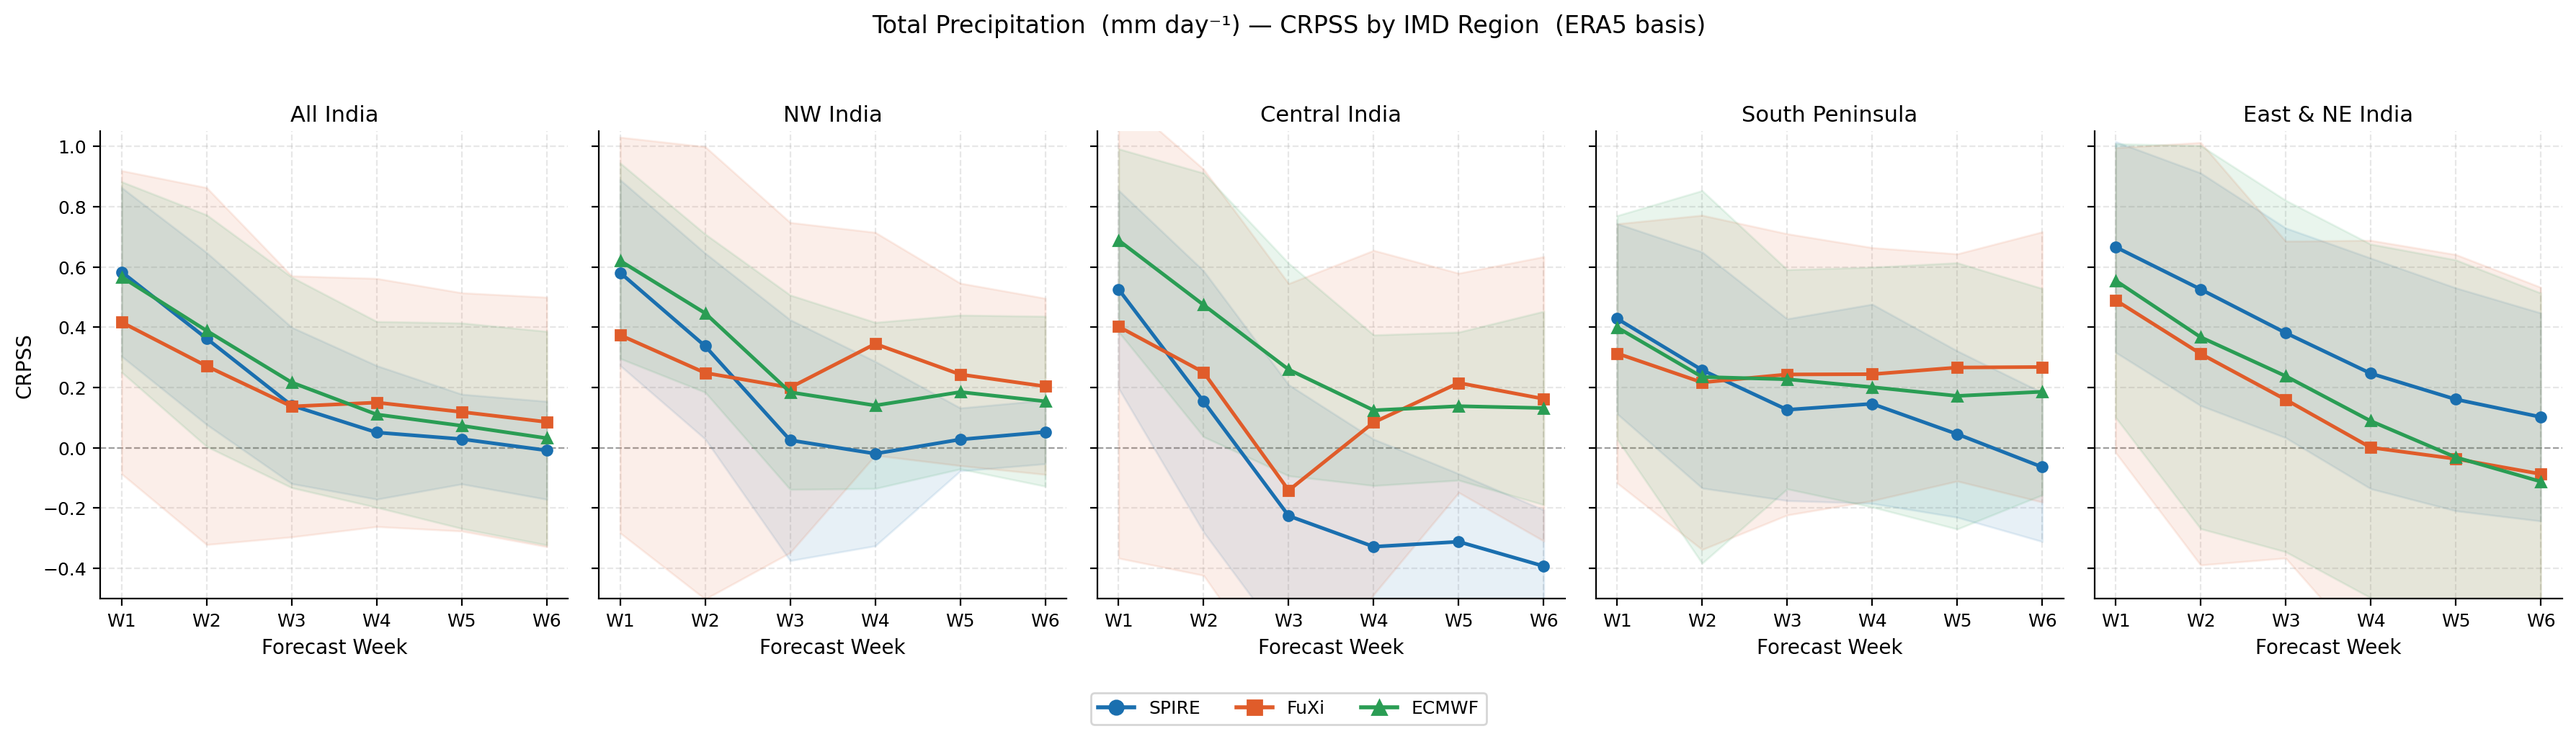
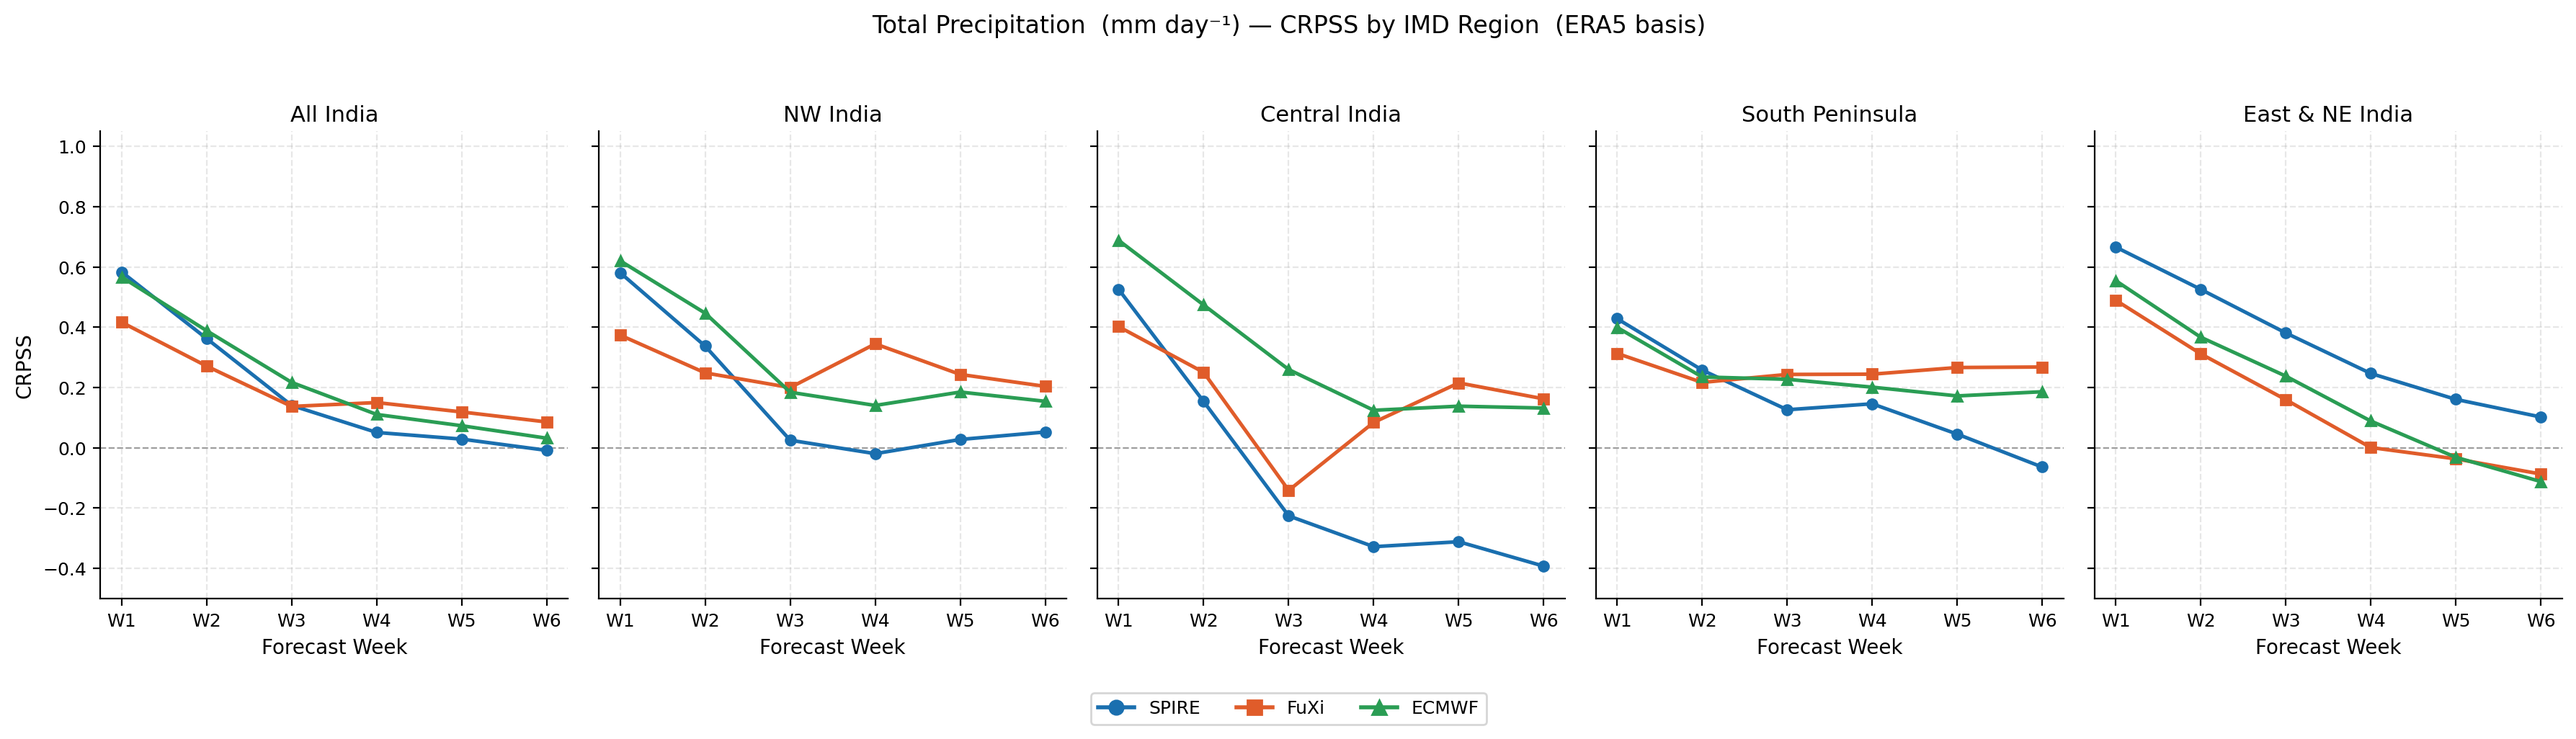
Remove ±1 std shading; add meeting summary figures
- Drop fill_between shading bands from bias/PCC/RMSE/CRPS/BSS line plots
  and update subtitles accordingly (cleaner for presentation).
- Add plot_summary.py producing three high-impact one-slide figures:
    SUMMARY_headline.png      — 4-panel PCC + CRPSS story, both variables
    SUMMARY_scorecard.png     — master model×week scorecard, PCC + CRPSS
    SUMMARY_skill_horizon.png — useful-skill-horizon bar chart
  Headline: SPIRE leads TP and is most robust Z500 at long lead;
  ECMWF best Z500 short-range; FuXi Z500 collapses after W2.

Changed region(s): [[0.4347, 0.1871, 0.9936, 0.8109], [0.031, 0.2183, 0.4036, 0.7485]]

diff --git a/paper/code/presentationv3/plots_scr/plot_summary.py b/paper/code/presentationv3/plots_scr/plot_summary.py
@@ -1,0 +1,200 @@
+#!/usr/bin/env python3
+"""
+plot_summary.py
+High-impact MEETING summary figures — the headline story on one slide.
+
+Outputs (plots_results_pres/):
+  SUMMARY_headline.png    — 4-panel: TP-PCC, Z500-PCC, TP-CRPSS, Z500-CRPSS
+                            with the key takeaways annotated
+  SUMMARY_scorecard.png   — Master scorecard: every model × week, PCC+CRPSS,
+                            both variables, on one figure
+  SUMMARY_skill_horizon.png — "Useful skill horizon" bar chart: how many weeks
+                            each model beats PCC=0.5 / CRPSS=0
+"""
+import sys, os
+sys.path.insert(0, os.path.dirname(os.path.abspath(__file__)))
+
+import numpy as np
+import pandas as pd
+import matplotlib
+matplotlib.use('Agg')
+import matplotlib.pyplot as plt
+from matplotlib.colors import TwoSlopeNorm
+from _style import (set_style, savefig, DATADIR, MODEL_COLORS, MODEL_MARKERS,
+                    WEEKS, WLABELS, VAR_UNITS, VAR_LONG, style_week_axis,
+                    model_legend_handles)
+
+set_style()
+
+DET_MODELS  = ['SPIRE', 'FuXi', 'ECMWF', 'MME', 'Persistence']
+PROB_MODELS = ['SPIRE', 'FuXi', 'ECMWF']
+
+
+def load():
+    det = pd.read_csv(os.path.join(DATADIR, 'skill_deterministic.csv'))
+    det = det[(det.scale == 'weekly') & (det.region == 'All India') &
+              (det.clim_basis == 'era5')]
+    prob = pd.read_csv(os.path.join(DATADIR, 'skill_probabilistic.csv'))
+    prob = prob[(prob.scale == 'weekly') & (prob.region == 'All India') &
+                (prob.clim_basis == 'era5')]
+    return det, prob
+
+
+def _series(df, var, model, metric):
+    s = df[(df.variable == var) & (df.model == model)]
+    return np.array([s[s.lead == w][metric].mean() for w in WEEKS])
+
+
+# ══════════════════════════════════════════════════════════════════════════════
+def fig_headline(det, prob):
+    """The one-slide story: deterministic + probabilistic skill, both vars."""
+    fig, axes = plt.subplots(2, 2, figsize=(13, 9.5))
+    fig.suptitle('SPIRE S2S Hindcast Skill — JFM 2026, All India\n'
+                 'Deterministic (top) and Probabilistic (bottom) vs ERA5',
+                 fontsize=14, fontweight='bold', y=0.99)
+
+    panels = [
+        (axes[0, 0], det,  'TP',   'pcc',        'PCC',   (-0.15, 1.02), DET_MODELS,  0.5),
+        (axes[0, 1], det,  'Z500', 'pcc',        'PCC',   (-0.35, 1.02), DET_MODELS,  0.5),
+        (axes[1, 0], prob, 'TP',   'crpss_clim', 'CRPSS', (-0.25, 0.75), PROB_MODELS, 0.0),
+        (axes[1, 1], prob, 'Z500', 'crpss_clim', 'CRPSS', (-0.45, 1.02), PROB_MODELS, 0.0),
+    ]
+
+    for ax, src, var, metric, ylab, ylim, mods, thresh in panels:
+        for m in mods:
+            if m not in MODEL_COLORS:
+                continue
+            vals = _series(src, var, m, metric)
+            if np.all(np.isnan(vals)):
+                continue
+            lw = 1.6 if m == 'Persistence' else 2.6
+            ls = '--' if m == 'Persistence' else '-'
+            ms = 5 if m == 'Persistence' else 8
+            ax.plot(WEEKS, vals, color=MODEL_COLORS[m], marker=MODEL_MARKERS[m],
+                    lw=lw, ms=ms, ls=ls, label=m, zorder=3,
+                    markeredgecolor='white', markeredgewidth=0.6)
+
+        # Skill threshold line
+        ax.axhline(thresh, color='darkorange', lw=1.2, ls=':', alpha=0.85, zorder=1)
+        tlabel = 'PCC = 0.5 (useful)' if metric == 'pcc' else 'CRPSS = 0 (= clim)'
+        ax.text(6.05, thresh, tlabel, fontsize=8, color='darkorange',
+                va='center', ha='left')
+
+        style_week_axis(ax, ylabel=ylab, ylim=ylim,
+                        title=f'{VAR_LONG[var]}  ({VAR_UNITS[var]})')
+
+    # One shared legend
+    handles = model_legend_handles(DET_MODELS)
+    fig.legend(handles=handles, loc='lower center', ncol=5, fontsize=11,
+               bbox_to_anchor=(0.5, -0.01), frameon=True)
+
+    fig.tight_layout(rect=[0, 0.03, 0.93, 0.96])
+    savefig(fig, 'SUMMARY_headline.png')
+
+
+# ══════════════════════════════════════════════════════════════════════════════
+def fig_scorecard(det, prob):
+    """Master scorecard: rows = model, cols = week, blocks = metric × variable."""
+    mods = ['SPIRE', 'FuXi', 'ECMWF', 'MME']
+    blocks = [
+        ('TP',   'pcc',        det,  'PCC',   'RdYlGn', (-0.2, 1.0)),
+        ('Z500', 'pcc',        det,  'PCC',   'RdYlGn', (-0.2, 1.0)),
+        ('TP',   'crpss_clim', prob, 'CRPSS', 'RdYlGn', (-0.3, 0.7)),
+        ('Z500', 'crpss_clim', prob, 'CRPSS', 'RdYlGn', (-0.3, 1.0)),
+    ]
+    fig, axes = plt.subplots(len(blocks), 1, figsize=(9, 11))
+    fig.suptitle('Skill Scorecard — All India, JFM 2026 (vs ERA5)\n'
+                 'Green = skilful · Red = no skill',
+                 fontsize=13, fontweight='bold', y=1.0)
+
+    for ax, (var, metric, src, mlab, cmap, vlim) in zip(axes, blocks):
+        data = np.array([_series(src, var, m, metric) for m in mods])
+        im = ax.imshow(data, aspect='auto', cmap=cmap, vmin=vlim[0], vmax=vlim[1])
+        ax.set_yticks(range(len(mods))); ax.set_yticklabels(mods, fontsize=10)
+        ax.set_xticks(range(6)); ax.set_xticklabels(WLABELS, fontsize=10)
+        ax.set_title(f'{var}  —  {mlab}', fontsize=11, fontweight='bold', pad=4)
+        for i in range(len(mods)):
+            for j in range(6):
+                v = data[i, j]
+                if not np.isnan(v):
+                    ax.text(j, i, f'{v:.2f}', ha='center', va='center',
+                            fontsize=9,
+                            color='black' if abs(v) < 0.6 else 'white',
+                            fontweight='bold')
+        cb = fig.colorbar(im, ax=ax, fraction=0.025, pad=0.01)
+        cb.ax.tick_params(labelsize=8)
+
+    fig.tight_layout(rect=[0, 0, 1, 0.97])
+    savefig(fig, 'SUMMARY_scorecard.png')
+
+
+# ══════════════════════════════════════════════════════════════════════════════
+def fig_skill_horizon(det, prob):
+    """Bar chart: # of weeks each model stays skilful (PCC>=0.5 / CRPSS>=0)."""
+    mods = ['SPIRE', 'FuXi', 'ECMWF', 'MME']
+
+    def last_skilful_week(vals, thresh):
+        """Highest contiguous week index (1-based) staying >= thresh from W1."""
+        n = 0
+        for v in vals:
+            if np.isnan(v) or v < thresh:
+                break
+            n += 1
+        return n
+
+    metrics = [
+        ('TP PCC≥0.5',     det,  'TP',   'pcc',        0.5),
+        ('Z500 PCC≥0.5',   det,  'Z500', 'pcc',        0.5),
+        ('TP CRPSS≥0',     prob, 'TP',   'crpss_clim', 0.0),
+        ('Z500 CRPSS≥0',   prob, 'Z500', 'crpss_clim', 0.0),
+    ]
+
+    fig, ax = plt.subplots(figsize=(11, 6))
+    x = np.arange(len(metrics))
+    width = 0.2
+
+    for mi, m in enumerate(mods):
+        horizons = []
+        for _, src, var, metric, thr in metrics:
+            vals = _series(src, var, m, metric)
+            horizons.append(last_skilful_week(vals, thr))
+        bars = ax.bar(x + (mi - 1.5) * width, horizons, width,
+                      color=MODEL_COLORS[m], label=m,
+                      edgecolor='white', linewidth=0.8)
+        for b, h in zip(bars, horizons):
+            if h > 0:
+                ax.text(b.get_x() + b.get_width() / 2, h + 0.08, f'{h}',
+                        ha='center', va='bottom', fontsize=10, fontweight='bold',
+                        color=MODEL_COLORS[m])
+
+    ax.set_xticks(x)
+    ax.set_xticklabels([m[0] for m in metrics], fontsize=11)
+    ax.set_ylabel('Useful skill horizon  (weeks from W1)', fontsize=12)
+    ax.set_ylim(0, 6.6)
+    ax.set_yticks(range(7))
+    ax.set_title('Forecast Skill Horizon by Model — All India, JFM 2026\n'
+                 'Contiguous weeks from W1 staying above the skill threshold',
+                 fontsize=13, fontweight='bold')
+    ax.grid(axis='y', alpha=0.3)
+    ax.legend(fontsize=11, ncol=4, loc='upper center', bbox_to_anchor=(0.5, -0.08),
+              frameon=True)
+    fig.tight_layout()
+    savefig(fig, 'SUMMARY_skill_horizon.png')
+
+
+def main():
+    print("Loading skill tables (weekly, All India, era5)...")
+    det, prob = load()
+    print(f"  det rows: {len(det)}  |  prob rows: {len(prob)}")
+
+    print("\n[1/3] Headline 4-panel story...")
+    fig_headline(det, prob)
+    print("[2/3] Master scorecard...")
+    fig_scorecard(det, prob)
+    print("[3/3] Skill horizon bars...")
+    fig_skill_horizon(det, prob)
+    print("\nDone.")
+
+
+if __name__ == '__main__':
+    main()

diff --git a/paper/code/presentationv3/plots_scr/plot_crps.py b/paper/code/presentationv3/plots_scr/plot_crps.py
@@ -48,7 +48,7 @@ def fig_crps_absolute(df):
     """Absolute CRPS values + climatology and persistence references."""
     fig, axes = plt.subplots(1, 2, figsize=(13, 5))
     fig.suptitle('Absolute CRPS — All India  (lower = better)\n'
-                 'ERA5 anomaly basis  |  Shading = ±1 std',
+                 'ERA5 anomaly basis  |  Mean across 13 initialisations',
                  fontsize=12, y=1.02)
 
     for ci, var in enumerate(['TP', 'Z500']):
@@ -67,8 +67,6 @@ def fig_crps_absolute(df):
                 continue
             c = MODEL_COLORS[m]; mk = MODEL_MARKERS[m]
             ax.plot(WEEKS, means, color=c, marker=mk, lw=2.0, ms=7, label=m, zorder=3)
-            ax.fill_between(WEEKS, np.maximum(0, means - stds), means + stds,
-                            color=c, alpha=0.10, zorder=2)
 
         style_week_axis(ax, ylabel=f'CRPS ({unit})',
                         title=f'{VAR_LONG[var]}  ({unit})')
@@ -87,7 +85,7 @@ def fig_crpss(df):
     """CRPSS vs climatology."""
     fig, axes = plt.subplots(1, 2, figsize=(13, 5))
     fig.suptitle('CRPSS vs Climatology — All India\n'
-                 'ERA5 anomaly basis  |  > 0 = better than climatology  |  Shading = ±1 std',
+                 'ERA5 anomaly basis  |  > 0 = better than climatology',
                  fontsize=12, y=1.02)
 
     for ci, var in enumerate(['TP', 'Z500']):
@@ -98,8 +96,6 @@ def fig_crpss(df):
                 continue
             c = MODEL_COLORS[m]; mk = MODEL_MARKERS[m]
             ax.plot(WEEKS, means, color=c, marker=mk, lw=2.0, ms=7, label=m, zorder=3)
-            ax.fill_between(WEEKS, means - stds, means + stds,
-                            color=c, alpha=0.10, zorder=2)
 
         style_week_axis(ax, ylabel='CRPSS', ylim=(-0.45, 1.05),
                         title=f'{VAR_LONG[var]}  ({VAR_UNITS[var]})')
@@ -161,8 +157,6 @@ def fig_crpss_regional(df, var):
                 continue
             ax.plot(WEEKS, means, color=MODEL_COLORS[m], marker=MODEL_MARKERS[m],
                     lw=1.8, ms=5, zorder=3)
-            ax.fill_between(WEEKS, means - stds, means + stds,
-                            color=MODEL_COLORS[m], alpha=0.10, zorder=2)
         style_week_axis(ax, ylabel='CRPSS' if ci == 0 else '',
                         ylim=(-0.5, 1.05), title=REGION_LABEL[reg])
 

diff --git a/paper/code/presentationv3/plots_scr/plot_bias.py b/paper/code/presentationv3/plots_scr/plot_bias.py
@@ -45,15 +45,13 @@ def fig_allIndia(df, var):
     unit = VAR_UNITS[var]
     fig, ax = plt.subplots(figsize=(9, 5))
     fig.suptitle(f'{VAR_LONG[var]}  ({unit}) — Weekly Mean Bias (Forecast − Observed)\n'
-                 f'All India  |  ERA5 anomaly basis  |  Shading = ±1 std across 13 inits',
+                 f'All India  |  ERA5 anomaly basis  |  Mean across 13 initialisations',
                  fontsize=12)
 
     for m in MODELS_BIAS:
         means, stds = _get_bias_stats(df, var, m, 'All India')
         c = MODEL_COLORS[m]; mk = MODEL_MARKERS[m]
         ax.plot(WEEKS, means, color=c, marker=mk, lw=2.0, ms=7, label=m, zorder=3)
-        ax.fill_between(WEEKS, means - stds, means + stds,
-                        color=c, alpha=0.12, zorder=2)
 
     style_week_axis(ax, ylabel=f'Bias ({unit})', title='')
     ax.axhline(0, color='#555', lw=1.2, ls='-', zorder=1)
@@ -68,7 +66,7 @@ def fig_regional(df, var):
     unit = VAR_UNITS[var]
     fig, axes = plt.subplots(1, 5, figsize=(18, 4.5), sharey=True)
     fig.suptitle(f'{VAR_LONG[var]}  ({unit}) — Weekly Bias by IMD Region\n'
-                 f'Shading = ±1 std  |  ERA5 anomaly basis',
+                 f'ERA5 anomaly basis  |  Mean across 13 initialisations',
                  fontsize=12, y=1.03)
 
     for ci, reg in enumerate(REGIONS):
@@ -77,8 +75,6 @@ def fig_regional(df, var):
             means, stds = _get_bias_stats(df, var, m, reg)
             c = MODEL_COLORS[m]; mk = MODEL_MARKERS[m]
             ax.plot(WEEKS, means, color=c, marker=mk, lw=1.8, ms=5, label=m, zorder=3)
-            ax.fill_between(WEEKS, means - stds, means + stds,
-                            color=c, alpha=0.12, zorder=2)
         style_week_axis(ax, ylabel=f'Bias ({unit})' if ci == 0 else '',
                         title=REGION_LABEL[reg])
         ax.axhline(0, color='#555', lw=1.0, ls='-')

diff --git a/paper/code/presentationv3/plots_scr/plot_pcc.py b/paper/code/presentationv3/plots_scr/plot_pcc.py
@@ -42,7 +42,7 @@ def fig_allIndia(df):
     """Side-by-side TP and Z500, all models, weekly PCC."""
     fig, axes = plt.subplots(1, 2, figsize=(13, 5))
     fig.suptitle('Anomaly Pattern Correlation (PCC) — All India\n'
-                 'ERA5 anomaly basis  |  Weekly aggregation  |  Shading = ±1 std',
+                 'ERA5 anomaly basis  |  Weekly aggregation  |  Mean across 13 initialisations',
                  fontsize=12, y=1.03)
 
     for ci, var in enumerate(['TP', 'Z500']):
@@ -58,8 +58,6 @@ def fig_allIndia(df):
             ls = '--' if m == 'Persistence' else '-'
             ax.plot(WEEKS, means, color=c, marker=mk, lw=lw, ms=7, ls=ls,
                     label=m, zorder=3)
-            ax.fill_between(WEEKS, means - stds, means + stds,
-                            color=c, alpha=0.10, zorder=2)
 
         style_week_axis(ax, ylabel='PCC', ylim=(-0.25, 1.05),
                         title=f'{VAR_LONG[var]}  ({VAR_UNITS[var]})')
@@ -80,7 +78,7 @@ def fig_regional(df, var):
     unit = VAR_UNITS[var]
     fig, axes = plt.subplots(1, 5, figsize=(18, 4.5), sharey=True)
     fig.suptitle(f'{VAR_LONG[var]}  ({unit}) — PCC by IMD Region  (ERA5 basis)\n'
-                 'Shading = ±1 std across 13 initialisations',
+                 'Mean across 13 initialisations',
                  fontsize=12, y=1.03)
 
     for ci, reg in enumerate(REGIONS):
@@ -95,8 +93,6 @@ def fig_regional(df, var):
             ls = '--' if m == 'Persistence' else '-'
             ax.plot(WEEKS, means, color=c, marker=mk, lw=1.8, ms=5, ls=ls,
                     zorder=3)
-            ax.fill_between(WEEKS, means - stds, means + stds,
-                            color=c, alpha=0.10, zorder=2)
 
         ax.axhline(0.5, color='darkorange', lw=0.8, ls=':', alpha=0.7)
         style_week_axis(ax, ylabel='PCC' if ci == 0 else '',

diff --git a/paper/code/presentationv3/plots_scr/plot_rmse.py b/paper/code/presentationv3/plots_scr/plot_rmse.py
@@ -40,7 +40,7 @@ def _stats(df, var, model, region, metric, weeks=WEEKS):
 def fig_allIndia(df):
     fig, axes = plt.subplots(1, 2, figsize=(13, 5))
     fig.suptitle('RMSE — All India  (ERA5 anomaly basis)\n'
-                 'Shading = ±1 std across 13 initialisations',
+                 'Mean across 13 initialisations',
                  fontsize=12, y=1.02)
 
     for ci, var in enumerate(['TP', 'Z500']):
@@ -56,8 +56,6 @@ def fig_allIndia(df):
             ls = '--' if m == 'Persistence' else '-'
             ax.plot(WEEKS, means, color=c, marker=mk, lw=2.0, ms=7, ls=ls,
                     label=m, zorder=3)
-            ax.fill_between(WEEKS, np.maximum(0, means - stds), means + stds,
-                            color=c, alpha=0.10, zorder=2)
 
         style_week_axis(ax, ylabel=f'RMSE ({unit})',
                         title=f'{VAR_LONG[var]}  ({unit})')
@@ -74,7 +72,7 @@ def fig_regional(df, var):
     unit = VAR_UNITS[var]
     fig, axes = plt.subplots(1, 5, figsize=(18, 4.5), sharey=True)
     fig.suptitle(f'{VAR_LONG[var]}  ({unit}) — RMSE by IMD Region  (ERA5 basis)\n'
-                 'Shading = ±1 std',
+                 'Mean across 13 initialisations',
                  fontsize=12, y=1.03)
 
     for ci, reg in enumerate(REGIONS):
@@ -89,8 +87,6 @@ def fig_regional(df, var):
             ls = '--' if m == 'Persistence' else '-'
             ax.plot(WEEKS, means, color=c, marker=mk, lw=1.8, ms=5, ls=ls,
                     zorder=3)
-            ax.fill_between(WEEKS, np.maximum(0, means - stds), means + stds,
-                            color=c, alpha=0.10, zorder=2)
         style_week_axis(ax, ylabel=f'RMSE ({unit})' if ci == 0 else '',
                         title=REGION_LABEL[reg])
         ax.set_ylim(bottom=0)

diff --git a/paper/code/presentationv3/plots_scr/plot_brier.py b/paper/code/presentationv3/plots_scr/plot_brier.py
@@ -62,7 +62,7 @@ def fig_events(df, var, events):
     fig, axes = plt.subplots(nrow, ncol, figsize=(ncol * 5.5, nrow * 4.2),
                              squeeze=False)
     fig.suptitle(f'{VAR_LONG[var]} — Brier Skill Score vs Climatology\n'
-                 f'All India  |  ERA5 basis  |  Shading = ±1 std',
+                 f'All India  |  ERA5 basis  |  Mean across 13 initialisations',
                  fontsize=12, y=1.01)
 
     for idx, event in enumerate(events):
@@ -73,8 +73,6 @@ def fig_events(df, var, events):
                 continue
             c = MODEL_COLORS[m]; mk = MODEL_MARKERS[m]
             ax.plot(WEEKS, means, color=c, marker=mk, lw=2.0, ms=7, label=m, zorder=3)
-            ax.fill_between(WEEKS, means - stds, means + stds,
-                            color=c, alpha=0.12, zorder=2)
         style_week_axis(ax, ylabel='BSS', ylim=(-0.6, 1.1),
                         title=EVENT_LABEL.get(event, event))
 
